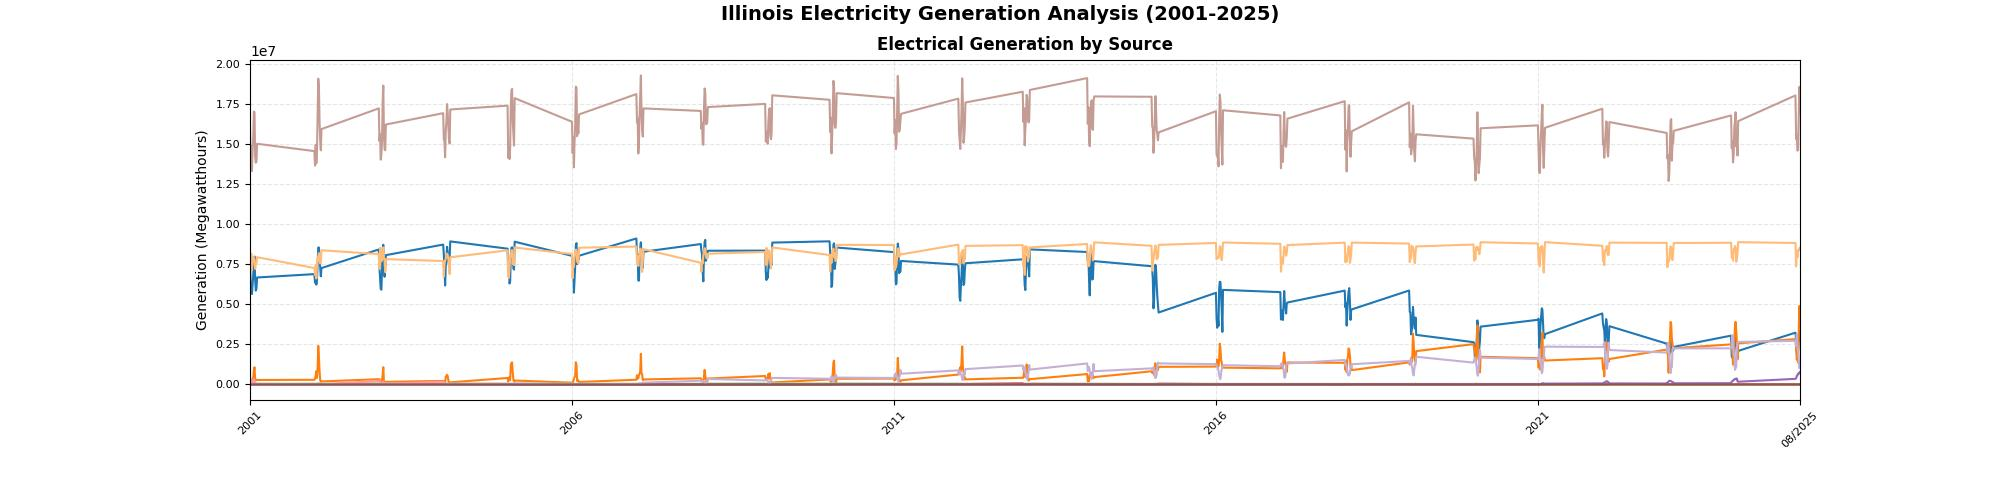
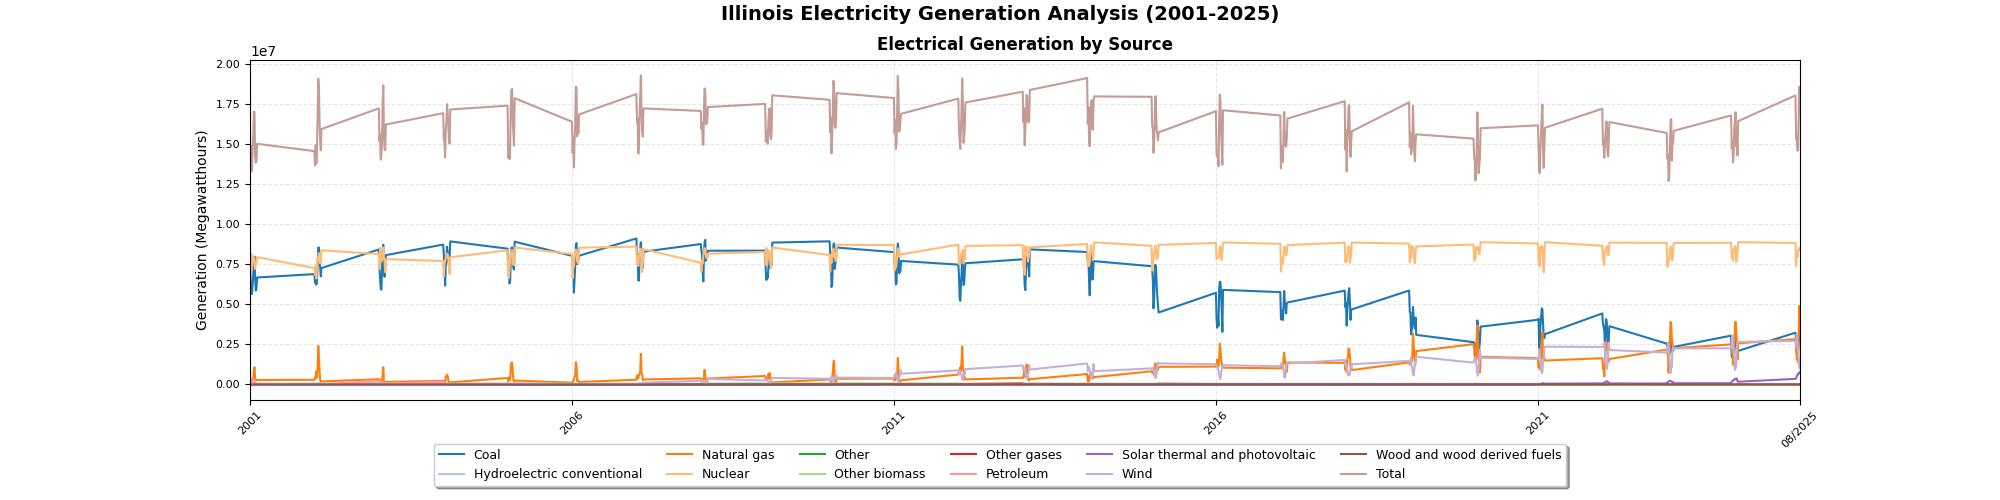
Updated files.

Changed region(s): [[0.217, 0.9, 0.806, 0.99]]

diff --git a/HDC_pt2/EIA_EPM/process_860.py b/HDC_pt2/EIA_EPM/process_860.py
@@ -74,8 +74,7 @@ axs.grid(True, alpha=0.3, linestyle='--')
 
 # fig.legend(loc='upper center', bbox_to_anchor=(0.5, 0.975), frameon=True, fancybox=True, shadow=True, fontsize=9)
 
-fig.legend(loc='upper center', bbox_to_anchor=(0.5, -0.05), frameon=True, fancybox=True, shadow=True, fontsize=9)
-
+fig.legend(loc='upper center', bbox_to_anchor=(0.5, 0.125), frameon=True, fancybox=True, shadow=True, fontsize=9, ncols=6)
 plt.subplots_adjust(bottom=0.2)
 
 fig.suptitle('Illinois Electricity Generation Analysis (2001-2025)', fontsize=14, fontweight='bold', y=0.99)
